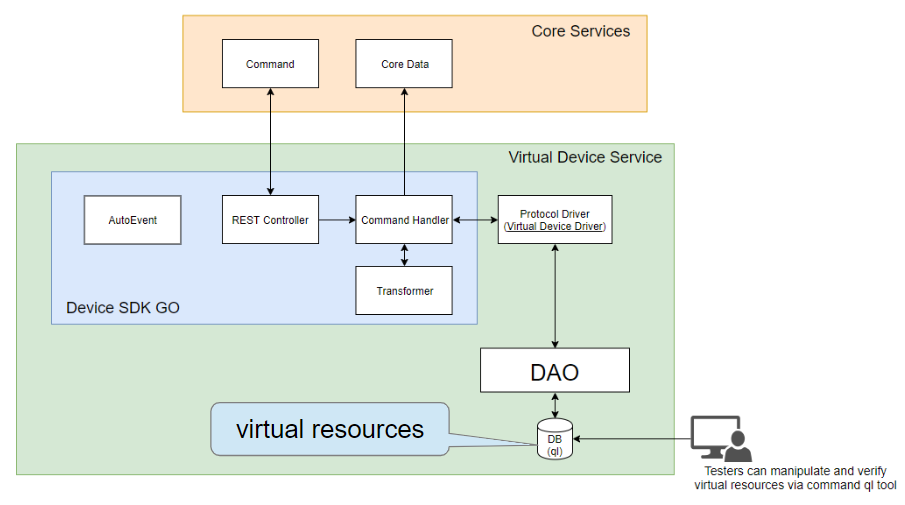
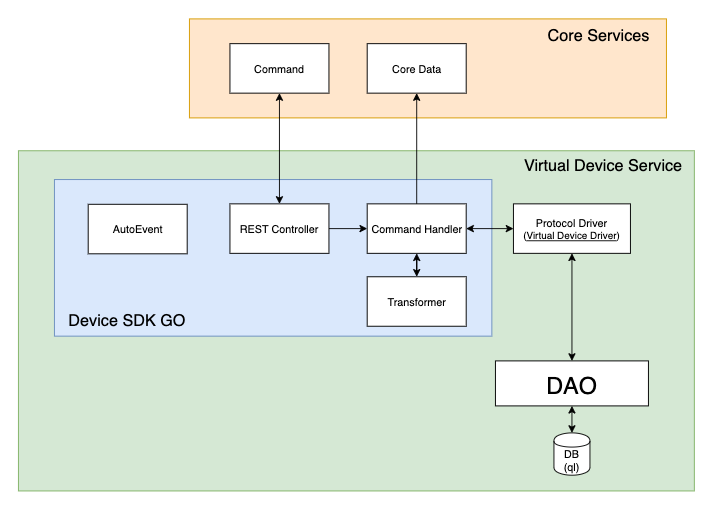
feat: update Virtual Device docs for V2

diff --git a/docs_src/examples/Ch-ExamplesVirtualDeviceService.md b/docs_src/examples/Ch-ExamplesVirtualDeviceService.md
@@ -24,36 +24,48 @@ For information on the virtual device service see [virtual device](../microservi
 
 ### Running the Virtual Device Service Container
 
-The virtual device service depends on the EdgeX core services. By default, the virtual device service is part of the EdgeX community provided Docker Compose files.  If you use one of the [community provide Compose files](https://github.com/edgexfoundry/developer-scripts/tree/master/releases), you can pull and run EdgeX inclusive of the virtual device service without having to make any changes.
+The virtual device service depends on the EdgeX core services. By default, the virtual device service is part of the EdgeX community provided Docker Compose files.  If you use one of the [community provide Compose files](https://github.com/edgexfoundry/edgex-compose/tree/ireland), you can pull and run EdgeX inclusive of the virtual device service without having to make any changes.
 
 ### Running the Virtual Device Service Natively (in development mode)
 
 If you're going to download the source code and run the virtual device service in development mode, make sure that the EdgeX core service containers are up before starting the virtual device service.  See how to work with EdgeX in a [hybrid environment](../getting-started/Ch-GettingStartedHybrid.md) in order to run the virtual device service outside of containers.  This same file will instruct you on how to get and [run the virtual device service code](../getting-started/Ch-GettingStartedHybrid.md#get-the-service-code).
 
 ### GET command example
-The virtual device service is configured to send simulated data to core data every few seconds (from 10-30 seconds depending on device - see the [configuration file](https://github.com/edgexfoundry/device-virtual-go/blob/master/cmd/res/configuration.toml) for AutoEvent details).  You can excersice the `GET` request on the command service to see the generated value produced by any of the virtual device's simulated devices.  Use the curl command below to exercise the virtual device service API (via core command service).
+The virtual device service is configured to send simulated data to core data every few seconds (from 10-30 seconds depending on device - see the [device configuration file](https://github.com/edgexfoundry/device-virtual-go/blob/main/cmd/res/devices/devices.toml) for AutoEvent details).  You can exercise the `GET` request on the command service to see the generated value produced by any of the virtual device's simulated devices.  Use the curl command below to exercise the virtual device service API (via core command service).
 
 ``` bash
-curl -X GET localhost:48082/api/v1/device/1bd5d4c3-9d43-42f2-8c4a-f32f5999edf7/command/e5d7c2b8-eab7-4da4-9d41-388da05979a4`
+curl -X GET localhost:59882/api/v2/device/name/Random-Integer-Device/Int8`
 ```
 
 !!! Warning
-  The example above assumes your core command service is available on `localhost` at the default service port of 48082.  Also, you must replace your device ID and command ID in the example above with your virtual device service's identifiers.  If you are not sure of the identifiers to use, query the command service for the full list of commands and devices at `http://localhost:48082/api/v1/device`.
+  The example above assumes your core command service is available on `localhost` at the default service port of 59882.  Also, you must replace your device name and command name in the example above with your virtual device service's identifiers.  If you are not sure of the identifiers to use, query the command service for the full list of commands and devices at `http://localhost:59882/api/v2/device/all`.
 
 The virtual device should respond (via the core command service) with event/reading JSON similar to that below.
 ``` json
 {
-  "device": "Random-Integer-Device",
-  "origin": 1574325994604494491,
-  "readings": [
-    {
-      "origin": 1574325994572380549,
-      "device": "Random-Integer-Device",
-      "name": "Int8",
-      "value": "42"
-    }
-  ],
-  "EncodedEvent": null
+  "apiVersion": "v2",
+  "statusCode": 200,
+  "event": {
+    "apiVersion": "v2",
+    "id": "3beb5b83-d923-4c8a-b949-c1708b6611c1",
+    "deviceName": "Random-Integer-Device",
+    "profileName": "Random-Integer-Device",
+    "sourceName": "Int8",
+    "origin": 1626227770833093400,
+    "readings": [
+      {
+        "id": "baf42bc7-307a-4647-8876-4e84759fd2ba",
+        "origin": 1626227770833093400,
+        "deviceName": "Random-Integer-Device",
+        "resourceName": "Int8",
+        "profileName": "Random-Integer-Device",
+        "valueType": "Int8",
+        "binaryValue": null,
+        "mediaType": "",
+        "value": "-5"
+      }
+    ]
+  }
 }
 ```
 
@@ -63,7 +75,7 @@ The virtual devices managed by the virtual device can also be actuated.  The vir
 Below is example actuation of one of the virtual devices.  In this example, it sets the fixed `GET` return value to 123 and turns off random generation.
 
 ``` bash
-curl -X PUT -d '{"Int8": "123", "EnableRandomization_Int8": "false"}' localhost:48082/api/v1/device/1bd5d4c3-9d43-42f2-8c4a-f32f5999edf7/command/e5d7c2b8-eab7-4da4-9d41-388da05979a4
+curl -X PUT -d '{"Int8": "123", "EnableRandomization_Int8": "false"}' localhost:59882/api/v2/device/name/Random-Integer-Device/Int8
 ```
 
 !!! Note
@@ -72,65 +84,8 @@ curl -X PUT -d '{"Int8": "123", "EnableRandomization_Int8": "false"}' localhost:
 Return the virtual device to randomly generating numbers with another `PUT` call.
 
 ``` bash
-curl -X PUT -d '{"EnableRandomization_Int8": "true"}' 48082/api/v1/device/1bd5d4c3-9d43-42f2-8c4a-f32f5999edf7/command/e5d7c2b8-eab7-4da4-9d41-388da05979a4
+curl -X PUT -d '{"EnableRandomization_Int8": "true"}' localhost:59882/api/v2/device/name/Random-Integer-Device/Int8
 ```
-
-## Manipulate Virtual Resources Using the command ql Tool
-
-The virtual device service utilizes the ql database under he covers to store parameters for virtual device operations.  The values a virtual device generates can be controlled by changing these parameters in the embedded database (versus calling on the API).
-
-1.  You will need a command line tool to interact with the ql database.  Install [command ql](https://godoc.org/modernc.org/ql/ql).
-
-2. Depending on whether you are running the virtual device service in a Docker container or in development mode ("natively"), you will need access to the ql database directory (see the tabs below).
-
-3. Execute ql commands to execute SQL commands to see the virtual device configuration in the database or change the values returned.
-
-      -   Query all data:
-      ``` bash
-      ql -db /path-to-the-ql-db-folder/deviceVirtual.db -fld "select * from VIRTUAL_RESOURCE"
-      ```
-      -   Update Enable\_Randomization:
-      ``` bash
-      ql -db /path-to-the-ql-db-folder/deviceVirtual.db "update VIRTUAL_RESOURCE set ENABLE_RANDOMIZATION=false where DEVICE_NAME="Random-Integer-Device" and DEVICE_RESOURCE_NAME="Int8" "
-      ```
-
-      -   Update Value:
-      ``` bash
-      ql -db /path-to-the-ql-db-folder/deviceVirtual.db "update VIRTUAL_RESOURCE set VALUE="26" where DEVICE_NAME="Random-Integer-Device" and DEVICE_RESOURCE_NAME="Int8" "
-      ```
-    !!! Note
-        When running the virtual device service in a container, make sure to run these commands as `root` using sudo.
-
-=== "Running Containerized"
-
-    If the virtual device service runs in a Docker container, it must mount the directory (/db) that contains the ql database in the
-        container. For example:
-
-    ``` yaml
-    device-virtual:
-      image: edgexfoundry/docker-device-virtual-go:1.2.1
-      ports:
-      - "127.0.0.1:49990:49990"
-      container_name: edgex-device-virtual
-      hostname: edgex-device-virtual
-      networks:
-        - edgex-network
-      environment:
-        <<: *common-variables
-        Service_Host: edgex-device-virtual
-      depends_on:
-        - consul
-      # - logging  # uncomment if re-enabled remote logging
-        - data
-        - metadata
-      volumes:
-        - /mnt/hgfs/EdgeX/DeviceVirtualDB:/db # Mount ql database directory
-    ```
-
-
-=== "Running in Development Mode"
-
-    If the virtual device service runs in development mode, the ql database is under the `device-virtual-go/cmd/db` directory.
 
 ## Reference
 

diff --git a/docs_src/microservices/device/virtual/Ch-VirtualDevice.md b/docs_src/microservices/device/virtual/Ch-VirtualDevice.md
@@ -36,36 +36,36 @@ These devices are created by the virtual device service in core metadata when th
 ``` yaml
 -
   name: "Int8"
+  isHidden: false
   description: "Generate random int8 value"
   properties:
-    value:
-      { type: "Int8", readWrite: "R", defaultValue: "0" }
-    units:
-      { type: "String", readWrite: "R", defaultValue: "random int8 value" }
+    valueType: "Int8"
+    readWrite: "RW"
+    defaultValue: "0"
 -
   name: "Int16"
+  isHidden: false
   description: "Generate random int16 value"
   properties:
-    value:
-      { type: "Int16", readWrite: "R", defaultValue: "0" }
-    units:
-      { type: "String", readWrite: "R", defaultValue: "random int16 value" }
+    valueType: "Int16"
+    readWrite: "RW"
+    defaultValue: "0"
 -
   name: "Int32"
+  isHidden: false
   description: "Generate random int32 value"
   properties:
-    value:
-      { type: "Int32", readWrite: "R", defaultValue: "0" }
-    units:
-      { type: "String", readWrite: "R", defaultValue: "random int32 value" }
+    valueType: "Int32"
+    readWrite: "RW"
+    defaultValue: "0"
 -
   name: "Int64"
+  isHidden: false
   description: "Generate random int64 value"
   properties:
-    value:
-      { type: "Int64", readWrite: "R", defaultValue: "0" }
-    units:
-      { type: "String", readWrite: "R", defaultValue: "random int64 value" }
+    valueType: "Int64"
+    readWrite: "RW"
+    defaultValue: "0"
 ```
 
 Additionally, there is an accompanying deviceResource for each of the generated value deviceResource. Each deviceResources has an associated EnableRandomization_X deviceResource.  In the case of the integer deviceResources above, there are the associated EnableRandomization_IntX deviceResources below.  The EnableRandomization deviceResources are boolean values, and when set to true, the associated simulated sensor value is generated by the device service.  When the EnableRandomization_IntX value is set to false, then the associated simulator sensor value is fixed.
@@ -73,36 +73,36 @@ Additionally, there is an accompanying deviceResource for each of the generated 
 ``` yaml
 -
   name: "EnableRandomization_Int8"
+  isHidden: true
   description: "used to decide whether to re-generate a random value"
   properties:
-    value:
-      { type: "Bool", readWrite: "W", defaultValue: "true" }
-    units:
-      { type: "String", readWrite: "R", defaultValue: "Random" }
+    valueType: "Bool"
+    readWrite: "W"
+    defaultValue: "true"
 -
   name: "EnableRandomization_Int16"
+  isHidden: true
   description: "used to decide whether to re-generate a random value"
   properties:
-    value:
-      { type: "Bool", readWrite: "W", defaultValue: "true" }
-    units:
-      { type: "String", readWrite: "R", defaultValue: "Random" }
+    valueType: "Bool"
+    readWrite: "W"
+    defaultValue: "true"
 -
   name: "EnableRandomization_Int32"
+  isHidden: true
   description: "used to decide whether to re-generate a random value"
   properties:
-    value:
-      { type: "Bool", readWrite: "W", defaultValue: "true" }
-    units:
-      { type: "String", readWrite: "R", defaultValue: "Random" }
+    valueType: "Bool"
+    readWrite: "W"
+    defaultValue: "true"
 -
   name: "EnableRandomization_Int64"
+  isHidden: true
   description: "used to decide whether to re-generate a random value"
   properties:
-    value:
-      { type: "Bool", readWrite: "W", defaultValue: "true" }
-    units:
-      { type: "String", readWrite: "R", defaultValue: "Random" }
+    valueType: "Bool"
+    readWrite: "W"
+    defaultValue: "true"
 ```
 
 !!! Info
@@ -112,12 +112,14 @@ Additionally, there is an accompanying deviceResource for each of the generated 
     deviceResources:
       -
         name: "Int8"
+        isHidden: false
         description: "Generate random int8 value"
         properties:
-          value:
-            { type: "Int8", readWrite: "R", minimum: "-100", maximum: "100", defaultValue: "0" }
-          units:
-            { type: "String", readWrite: "R", defaultValue: "random int8 value" }
+          valueType: "Int8"
+          readWrite: "RW"
+          minimum: "-100"
+          maximum: "100"
+          defaultValue: "0"
     ```
 
 For the binary deviceResources, values are generated by the function rand.Read(p []byte) in Golang math package. The []byte size is fixed to MaxBinaryBytes/1000.
@@ -126,14 +128,14 @@ For the binary deviceResources, values are generated by the function rand.Read(p
 
 Use the following core command service APIs to execute commands against the virtual device service for the specified devices.  Both `GET` and `PUT` commands can be issued with these APIs.  `GET` command request the next generated value while `PUT` commands will allow you to disable randomization (EnableRandomization) and set the fixed values to be returned by the device.
 
-- http://[host]:48082/api/v1/device/name/Random-Boolean-Device
-- http://[host]:48082/api/v1/device/name/Random-Integer-Device
-- http://[host]:48082/api/v1/device/name/Random-UnsignedInteger-Device
-- http://[host]:48082/api/v1/device/name/Random-Float-Device
-- http://[host]:48082/api/v1/device/name/Random-Binary-Device
+- http://[host]:59882/api/v2/device/name/Random-Boolean-Device
+- http://[host]:59882/api/v2/device/name/Random-Integer-Device
+- http://[host]:59882/api/v2/device/name/Random-UnsignedInteger-Device
+- http://[host]:59882/api/v2/device/name/Random-Float-Device
+- http://[host]:59882/api/v2/device/name/Random-Binary-Device
 
 !!! Note
-    Port 48082 is the default port for the core command service.
+    Port 59882 is the default port for the core command service.
 
 ## Configuration Properties
 
@@ -145,7 +147,7 @@ For each device, the virual device service will contain a DeviceList with associ
     |---|---|---|
     |||properties used in defining the static provisioning of each of the virtual devices|
     |Name|'Random-Integer-Device'|name of the virtual device|
-    |Profile|'Random-Integer-Device'|device profile that defines the resources and commands of the virtual device|
+    |ProfileName|'Random-Integer-Device'|device profile that defines the resources and commands of the virtual device|
     |Description|'Example of Device Virtual'|description of the virtual device|
     |Labels|['device-virtual-example']|labels array used for searching for virtual devices|
 === "DeviceList/DeviceList.Protocols/DeviceList.Protocols.other"
@@ -157,11 +159,11 @@ For each device, the virual device service will contain a DeviceList with associ
     |Property|Default Value|Description|
     |---|---|---|
     |||properties used to define how often an event/reading is schedule for collection to send to core data from the virtual device|
-    |Frequency|'15s'|every 15 seconds|
+    |Interval|'15s'|every 15 seconds|
     |OnChange|false|collect data regardless of change|
-    |Resource|'Int8'|deviceResource to collect - in this case the Int8 resource|
+    |SourceName|'Int8'|deviceResource to collect - in this case the Int8 resource|
 
 ## API Reference
-[Device Service - SDK- API Reference](https://app.swaggerhub.com/apis-docs/EdgeXFoundry1/device-sdk/1.2.1)
+[Device Service - SDK- API Reference](https://app.swaggerhub.com/apis-docs/EdgeXFoundry1/device-sdk/2.0.0)
 
   
